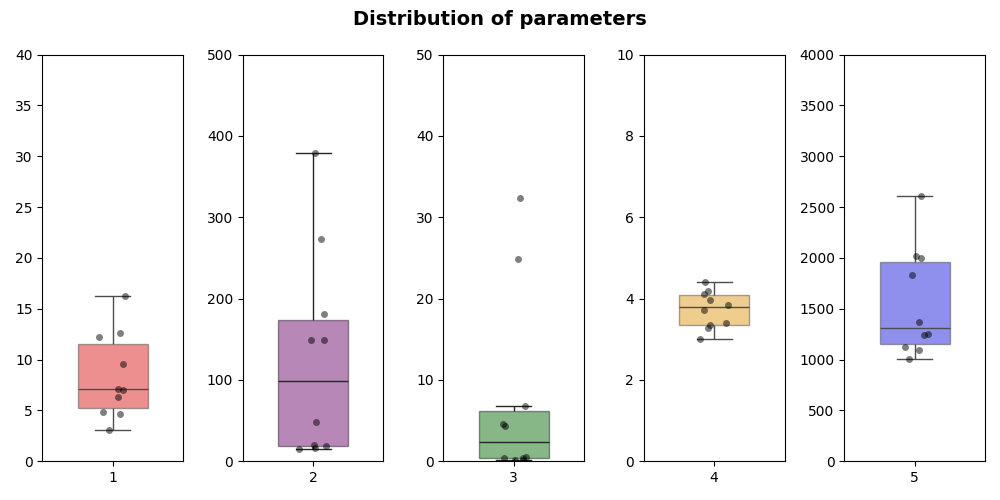
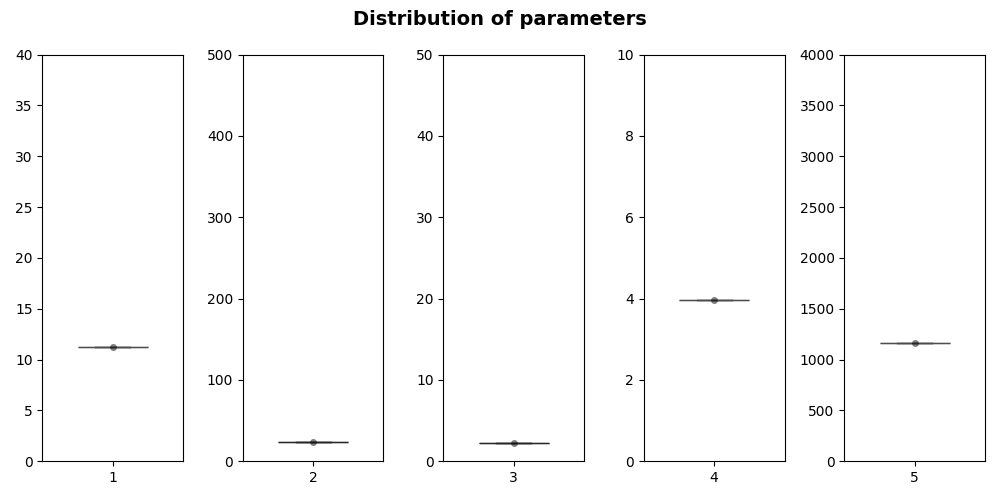
Added new obj functions to scripts

diff --git a/scripts/__other__/scripts/strain_rate.py b/scripts/__other__/scripts/strain_rate.py
@@ -1,0 +1,76 @@
+import os, math
+import numpy as np
+
+# Constants
+LIST_DENSITY = 100
+
+# Computes the derivative of two lists of values
+def compute_derivative(x_values, y_values, window_size=5):
+    y_smoothed = np.convolve(y_values, np.ones(window_size)/window_size, mode='valid')
+    derivatives = np.gradient(y_smoothed, x_values[:len(y_smoothed)], edge_order=2)
+    return derivatives
+
+# Tries to float cast a value
+def try_float_cast(value:str) -> float:
+    try:
+        return float(value)
+    except:
+        return value
+
+# Returns a thinned list
+def get_thinned_list(unthinned_list:list, density:int) -> list:
+    src_data_size = len(unthinned_list)
+    step_size = src_data_size / density
+    thin_indexes = [math.floor(step_size*i) for i in range(1, density - 1)]
+    thin_indexes = [0] + thin_indexes + [src_data_size - 1]
+    return [unthinned_list[i] for i in thin_indexes]
+
+# Converts a header file into a dict of lists
+def csv_to_dict(csv_path:str, delimeter:str=",") -> dict:
+
+    # Read all data from CSV (assume that file is not too big)
+    csv_fh = open(csv_path, "r")
+    csv_lines = csv_fh.readlines()
+    csv_fh.close()
+
+    # Initialisation for conversion
+    csv_dict = {}
+    headers = csv_lines[0].replace("\n", "").split(delimeter)
+    csv_lines = csv_lines[1:]
+    for header in headers:
+        csv_dict[header] = []
+
+    # Start conversion to dict
+    for csv_line in csv_lines:
+        csv_line_list = csv_line.replace("\n", "").split(delimeter)
+        for i in range(len(headers)):
+            value = csv_line_list[i]
+            if value == "":
+                continue
+            value = try_float_cast(value)
+            csv_dict[headers[i]].append(value)
+    
+    # Convert single item lists to items and things multi-item lists
+    for header in headers:
+        if len(csv_dict[header]) == 1:
+            csv_dict[header] = csv_dict[header][0]
+        else:
+            csv_dict[header] = get_thinned_list(csv_dict[header], LIST_DENSITY)
+    
+    # Return
+    return csv_dict
+
+# Initialise
+min_strain_rate_list = []
+
+# Iterate through files
+dir_path = "../../data/creep/inl_1"
+for file_name in os.listdir(dir_path):
+    data_dict = csv_to_dict(f"{dir_path}/{file_name}")
+    strain_rate = compute_derivative(data_dict["time"], data_dict["strain"])
+    strain_rate = [sr for sr in strain_rate if not str(sr) == "nan" and sr > 0]
+    min_strain_rate_list.append(min(strain_rate))
+
+# Print results
+print(f"Min: {min(min_strain_rate_list)}")
+print(f"Max: {max(min_strain_rate_list)}")

diff --git a/scripts/evpwdb_f/evpwdb_800_st.py b/scripts/evpwdb_f/evpwdb_800_st.py
@@ -13,7 +13,7 @@ fixed_params = "22.393	462.57	0.13573	4.314	1828.1"
 # fixed_params = "23.304	306.58	0.32123	4.2592	1822.6"
 # fixed_params = "31.137	31.413	4.6003	3.6958	2583"
 # fixed_params = "29.726	45.991	2.3174	3.9613	2101.3"
-# fixed_params = "4.2227	26.503	4.0461	5.25	1261.4"
+# fixed_params = "0.85682	42.524	9.6283	4.5033	1707"
 # fixed_params = "4.4611	35.628	31.021	3.6186	3016.2"
 api.fix_params([float(x) for x in fixed_params.split()])
 
@@ -40,6 +40,8 @@ api.read_data("creep/inl_1/AirBase_800_60_G32.csv")
 api.read_data("tensile/inl/AirBase_800_D7.csv")
 api.add_error("area", "strain", "stress")
 api.add_error("end", "strain")
+api.add_error("max", "stress")
+api.add_error("yield", yield_stress=291)
 # api.add_error("end", "stress")
 # api.add_error("damage", weight=0.1)
 

diff --git a/scripts/evpcd_f/evpcd_800_st.py b/scripts/evpcd_f/evpcd_800_st.py
@@ -13,7 +13,7 @@ fixed_params = "22.393	462.57	0.13573	4.314	1828.1"
 # fixed_params = "23.304	306.58	0.32123	4.2592	1822.6"
 # fixed_params = "31.137	31.413	4.6003	3.6958	2583"
 # fixed_params = "29.726	45.991	2.3174	3.9613	2101.3"
-# fixed_params = "4.2227	26.503	4.0461	5.25	1261.4"
+# fixed_params = "0.85682	42.524	9.6283	4.5033	1707"
 # fixed_params = "4.4611	35.628	31.021	3.6186	3016.2"
 api.fix_params([float(x) for x in fixed_params.split()])
 
@@ -38,6 +38,8 @@ api.read_data("creep/inl_1/AirBase_800_60_G32.csv")
 api.read_data("tensile/inl/AirBase_800_D7.csv")
 api.add_error("area", "strain", "stress")
 api.add_error("end", "strain")
+api.add_error("max", "stress")
+api.add_error("yield", yield_stress=291)
 # api.add_error("end", "stress")
 
 api.reduce_errors("square_average")

diff --git a/scripts/plot_sem/plot_evp_900.py b/scripts/plot_sem/plot_evp_900.py
@@ -21,16 +21,7 @@ api.remove_manual("strain", 0.3)
 api.add_error("dummy")
 
 params_str = """
-4.8238	378.86	0.1423	4.4021	1006.9
-7.1037	48.235	4.2972	3.4084	1829.9
-3.0461	19.608	32.421	3.2736	2022.3
-4.634	18.607	24.896	3.3436	1999.7
-16.287	181.45	0.52517	3.0161	2606.2
-9.5313	148.61	0.37484	3.9621	1253.9
-6.3647	149.54	0.43913	4.1839	1127.6
-12.622	15.441	4.5386	3.7305	1371.6
-12.256	273.68	0.20866	3.8422	1242.3
-7.044	16.175	6.7949	4.1207	1090
+11.2	24.262	2.2615	3.9651	1163
 """
 params_list = [list(map(float, line.split())) for line in params_str.strip().split("\n")]
 

diff --git a/scripts/plot_sem/plot_evp_800.py b/scripts/plot_sem/plot_evp_800.py
@@ -21,16 +21,8 @@ api.remove_manual("strain", 0.3)
 api.add_error("dummy")
 
 params_str = """
-31.327	104.92	0.8548	3.7508	2575.8
-22.393	462.57	0.13573	4.314	1828.1
-11.45	53.151	7.1666	3.9502	2221.6
-37.742	49.123	2.4996	3.4102	3172
-18.768	89.18	0.88069	4.5055	1677.4
-23.304	306.58	0.32123	4.2592	1822.6
-31.137	31.413	4.6003	3.6958	2583
-29.726	45.991	2.3174	3.9613	2101.3
-4.2227	26.503	4.0461	5.25	1261.4
-4.4611	35.628	31.021	3.6186	3016.2
+0.85682	42.524	9.6283	4.5033	1707
+
 """
 params_list = [list(map(float, line.split())) for line in params_str.strip().split("\n")]
 

diff --git a/scripts/evpcd_f/evpcd_900_all.py b/scripts/evpcd_f/evpcd_900_all.py
@@ -49,6 +49,8 @@ api.add_constraint("dec_end", "time")
 api.read_data("tensile/inl/AirBase_900_D10.csv")
 api.add_error("area", "strain", "stress")
 api.add_error("end", "strain")
+api.add_error("max", "stress")
+api.add_error("yield", yield_stress=164)
 # api.add_error("end", "stress")
 
 api.reduce_errors("square_average")

diff --git a/scripts/evpwdb_f/evpwdb_900_all.py b/scripts/evpwdb_f/evpwdb_900_all.py
@@ -53,6 +53,8 @@ api.add_constraint("dec_end", "time")
 api.read_data("tensile/inl/AirBase_900_D10.csv")
 api.add_error("area", "strain", "stress")
 api.add_error("end", "strain")
+api.add_error("max", "stress")
+api.add_error("yield", yield_stress=164)
 # api.add_error("end", "stress")
 
 api.reduce_errors("square_average")

diff --git a/scripts/evpcd_f/evpcd_800_all.py b/scripts/evpcd_f/evpcd_800_all.py
@@ -48,6 +48,8 @@ api.add_constraint("dec_end", "time")
 api.read_data("tensile/inl/AirBase_800_D7.csv")
 api.add_error("area", "strain", "stress")
 api.add_error("end", "strain")
+api.add_error("max", "stress")
+api.add_error("yield", yield_stress=291)
 # api.add_error("end", "stress")
 
 api.reduce_errors("square_average")

diff --git a/scripts/evpwdb_f/evpwdb_800_all.py b/scripts/evpwdb_f/evpwdb_800_all.py
@@ -52,6 +52,8 @@ api.add_constraint("dec_end", "time")
 api.read_data("tensile/inl/AirBase_800_D7.csv")
 api.add_error("area", "strain", "stress")
 api.add_error("end", "strain")
+api.add_error("max", "stress")
+api.add_error("yield", yield_stress=291)
 # api.add_error("end", "stress")
 
 api.reduce_errors("square_average")

diff --git a/scripts/evpcd_f/evpcd_900_st.py b/scripts/evpcd_f/evpcd_900_st.py
@@ -39,6 +39,8 @@ api.remove_oxidation()
 api.read_data("tensile/inl/AirBase_900_D10.csv")
 api.add_error("area", "strain", "stress")
 api.add_error("end", "strain")
+api.add_error("max", "stress")
+api.add_error("yield", yield_stress=164)
 # api.add_error("end", "stress")
 
 api.reduce_errors("square_average")

diff --git a/scripts/evpwdb_f/evpwdb_900_st.py b/scripts/evpwdb_f/evpwdb_900_st.py
@@ -41,6 +41,8 @@ api.remove_oxidation()
 api.read_data("tensile/inl/AirBase_900_D10.csv")
 api.add_error("area", "strain", "stress")
 api.add_error("end", "strain")
+api.add_error("max", "stress")
+api.add_error("yield", yield_stress=164)
 # api.add_error("end", "stress")
 
 api.reduce_errors("square_average")
